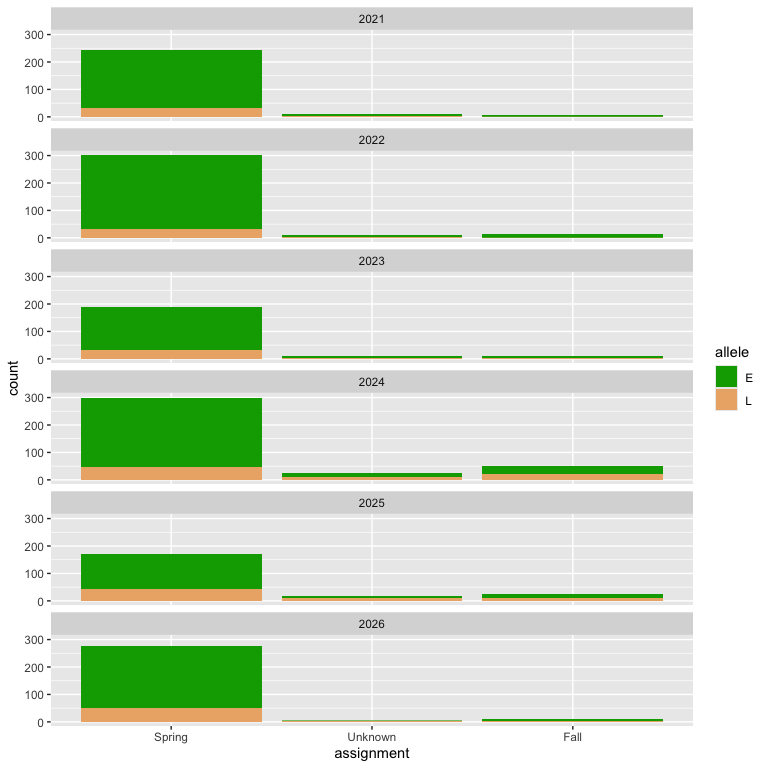
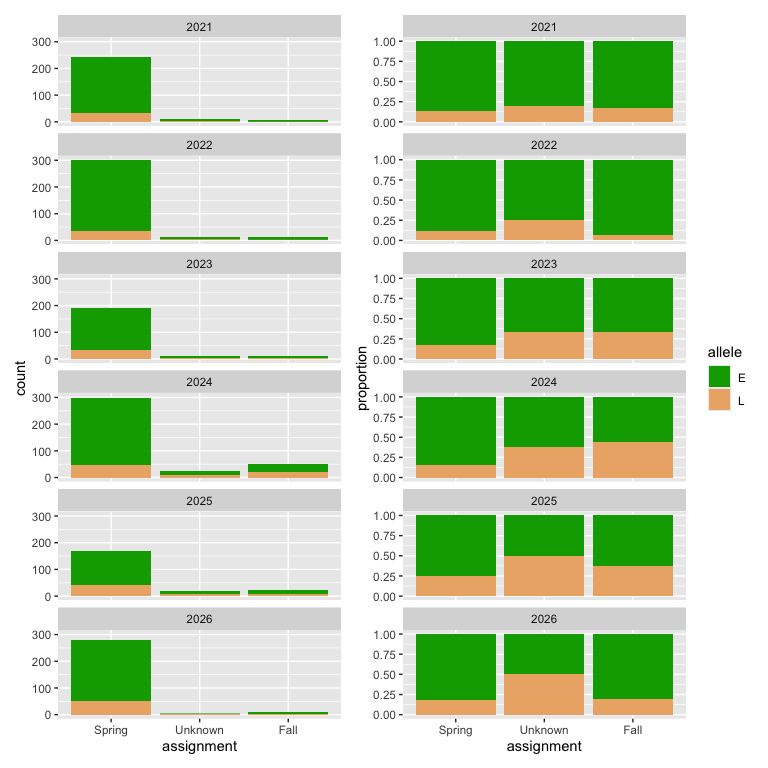
patch

diff --git a/run-timing-genetics.md b/run-timing-genetics.md
@@ -8,7 +8,7 @@ Tyler McCraney
 
 ![](run-timing-genetics_files/figure-gfm/unnamed-chunk-3-1.png)<!-- -->![](run-timing-genetics_files/figure-gfm/unnamed-chunk-3-2.png)<!-- -->![](run-timing-genetics_files/figure-gfm/unnamed-chunk-3-3.png)<!-- -->
 
-![](run-timing-genetics_files/figure-gfm/unnamed-chunk-4-1.png)<!-- -->![](run-timing-genetics_files/figure-gfm/unnamed-chunk-4-2.png)<!-- -->![](run-timing-genetics_files/figure-gfm/unnamed-chunk-4-3.png)<!-- -->![](run-timing-genetics_files/figure-gfm/unnamed-chunk-4-4.png)<!-- -->
+![](run-timing-genetics_files/figure-gfm/unnamed-chunk-4-1.png)<!-- -->![](run-timing-genetics_files/figure-gfm/unnamed-chunk-4-2.png)<!-- -->
 
 Selection against heterozygotes (underdominance)?
 
